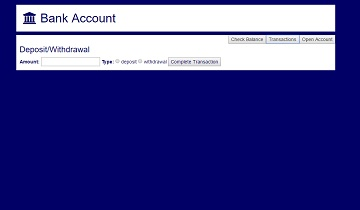
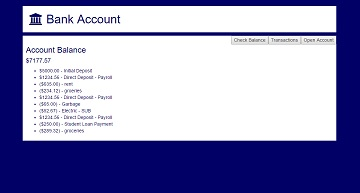
create accounts and transactions

diff --git a/js/scripts.js b/js/scripts.js
@@ -1,31 +1,84 @@
 //alert("jQuery is working on " + $("h1").text()); //test for jQuery linked and loaded correctly
 // business logic
-function createAccount(first, last, init) {
+function Account(first, last, init) {
+  this.firstName=first;
+  this.lastName=last;
+  this.balance=parseFloat(init);
+}
 
+Account.prototype.transaction=function(amount,type) {
+  if(type===1) {
+    this.balance+=amount;
+  }
+  if(type===2) {
+    this.balance-=amount;
+  }
 }
 
 // user interface logic
+var accountExists=false;
+
 $("#newAccount").click(function(event) {
   event.preventDefault();
-  alert($("#firstname").val());
-  alert($("#lastname").val());
-  alert($("#initialdeposit").val());
-  createAccount($("#firstname").val(), $("#lastname").val(), $("#initialdeposit").val());
+  newAccount= new Account($("#firstname").val(), $("#lastname").val(), $("#initialdeposit").val());
+  accountExists=true;
+  $("#openAccount").hide();
+  $("#transactionRecord").append("<li>$"+ newAccount.balance.toFixed(2) + " - Initial Deposit </li>");
+  $("#currentBalance").text("$" + newAccount.balance.toFixed(2));
+  $("#showBalance").show();
 });
 
+$("#submitTransaction").click(function(event) {
+  event.preventDefault();
+  var transactionAmount=parseFloat($("#transactionAmount").val());
+  var transactionType=0;
+  if(parseInt($("input:checked").val())===1) {
+    var transactionType=1;
+    $("#transactionRecord").append("<li>$"+ transactionAmount.toFixed(2) + " - " + $("#transactionNote").val() + "</li>");
+    newAccount.transaction(transactionAmount, transactionType);
+    $("#transactions").hide();
+    $("#currentBalance").text("$" + newAccount.balance.toFixed(2));
+    $("#showBalance").show();
+  } else if (parseInt($("input:checked").val())===2) {
+    var transactionType=2;
+    $("#transactionRecord").append("<li>($"+ transactionAmount.toFixed(2) + ") - " + $("#transactionNote").val() + "</li>");
+    newAccount.transaction(transactionAmount, transactionType);
+    $("#transactions").hide();
+    $("#currentBalance").text("$" + newAccount.balance.toFixed(2));
+    $("#showBalance").show();
+  } else {
+    alert("invalid transaction type, please select deposit or withdrawal");
+  }
+
+});
 
 $("#open").click(function() {
-  $("#openAccount").show();
-  $("#transactions").hide();
-  $("#showBalance").hide();
+  if(accountExists) {
+    alert("You already have an account with the bank, please use the transaction tab for deposits!")
+  } else {
+    $("#openAccount").show();
+    $("#transactions").hide();
+    $("#showBalance").hide();
+  }
+
 });
 $("#change").click(function() {
-  $("#openAccount").hide();
-  $("#transactions").show();
-  $("#showBalance").hide();
+  if(accountExists) {
+    $("#openAccount").hide();
+    $("#transactions").show();
+    $("#showBalance").hide();
+  } else {
+    alert("You cannot make a transaction because you do not have an account with this bank. Please open an account!");
+  }
+
 });
 $("#view").click(function () {
-  $("#openAccount").hide();
-  $("#transactions").hide();
-  $("#showBalance").show();
+  if(accountExists) {
+    $("#openAccount").hide();
+    $("#transactions").hide();
+    $("#showBalance").show();
+  } else {
+    alert("We cannot show you your balance because you do not have an account with this bank. Please open an account!")
+  }
+
 });

diff --git a/index.html b/index.html
@@ -28,10 +28,11 @@
       <div id="transactions">
         <h3>Deposit/Withdrawal</h3>
         <form id="formTransactions">
-          <label>Amount: </label> <input type="number">
+          <label>Amount: </label> <input type="number" id="transactionAmount">
           <label>Type: </label>
-          <input type="radio" name="transactionType"> deposit
-          <input type="radio" name="transactionType"> withdrawal
+          <input type="radio" name="transactionType" value=1> deposit
+          <input type="radio" name="transactionType" value=2> withdrawal
+          <br><label>Note: </label> <input type="text" id="transactionNote">
           <button id="submitTransaction">Complete Transaction</button>
         </form>
       </div>

diff --git a/css/styles.css b/css/styles.css
@@ -12,5 +12,7 @@ h1 {
   background-color: #ffffff;
   color: #000066;
   padding: 10px;
+}
+#transactions, #showBalance {
   display: none;
 }

diff --git a/README.md b/README.md
@@ -1,7 +1,7 @@
 # :dollar: [Bank Account](http://karenfreemansmith.github.io/bankaccount) :dollar::dollar::dollar:
 ![project screenshot](/img/screenshot.jpg)
 
-__Version 1: April 27, 2016__
+__Version 1: May 3, 2016__
 ## by [Karen Freeman-Smith](http://karenfreemansmith.github.io)
 
 ### Description
